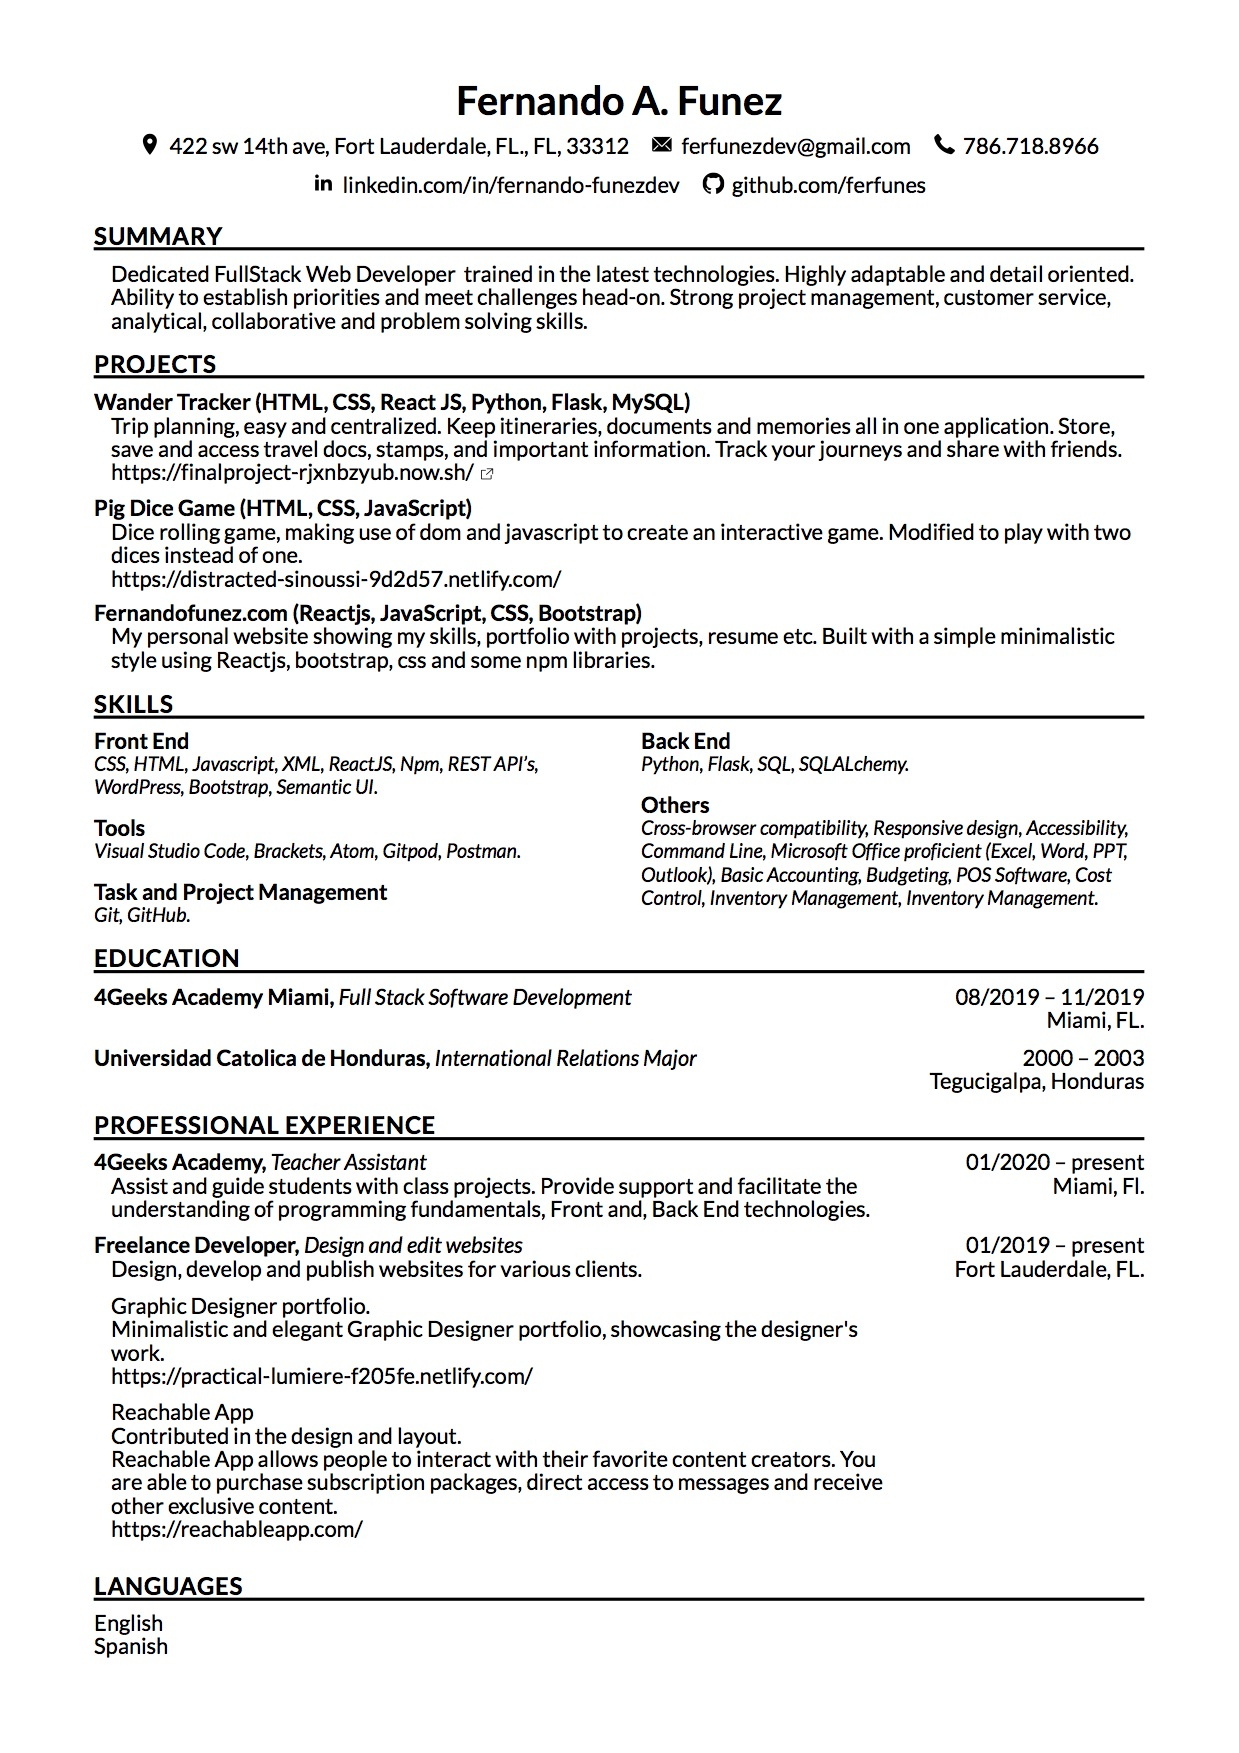
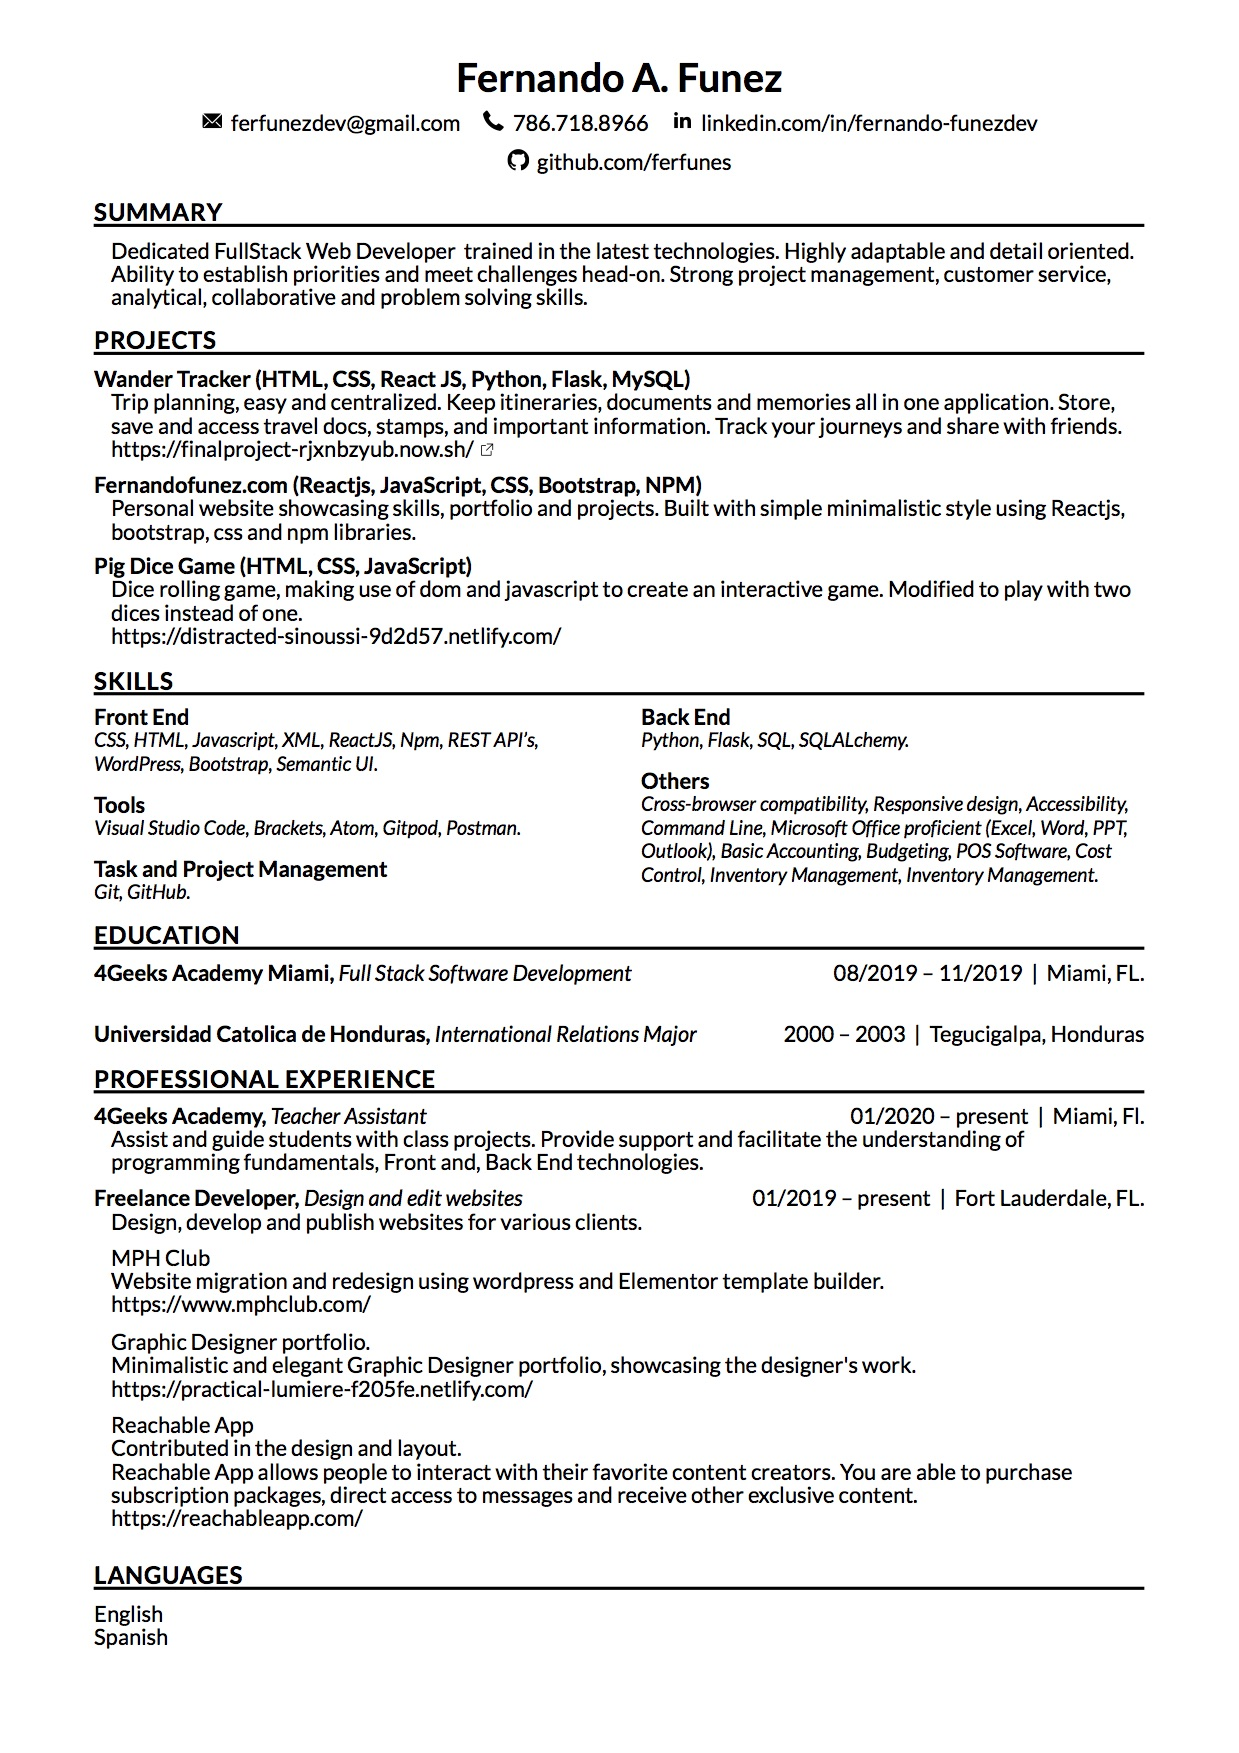
updates

Changed region(s): [[0.0613, 0.0308, 0.9201, 0.9549], [0.6441, 0.5853, 0.6747, 0.6161]]

diff --git a/src/js/component/portfolio.js b/src/js/component/portfolio.js
@@ -126,7 +126,7 @@ export const Portfolio = () => {
 										Go to Project
 									</a>
 									<a
-										href="https://elated-villani-09ad56.netlify.com/"
+										href="https://github.com/ferfunes/HTML-CSS-Email"
 										target="_blank"
 										rel="noopener noreferrer"
 										className="btn btn-outline-secondary ">
@@ -152,11 +152,10 @@ export const Portfolio = () => {
 										Fernandofunez.com
 									</h3>
 									<p className="card-text">
-										My personal website showing my skills,
-										portfolio with projects, resume etc.
-										Built with a simple minimalistic style
-										using Reactjs, bootstrap, css and some
-										npm libraries.
+										Personal website showcasing skills,
+										portfolio and projects. Built with a
+										simple minimalistic style using Reactjs,
+										bootstrap, css and npm libraries.
 									</p>
 
 									<a

diff --git a/src/js/component/footer.js b/src/js/component/footer.js
@@ -16,12 +16,7 @@ export const Footer = () => (
 					rel="noopener noreferrer">
 					<i className="icon fab fa-linkedin mr-3" />
 				</a>
-				<a
-					href="https://www.instagram.com/djfumes/"
-					target="_blank"
-					rel="noopener noreferrer">
-					<i className="icon fab fa-instagram" />
-				</a>
+
 				<div className="footer-copyright mt-3">
 					© 2020 Copyright:
 					<a
